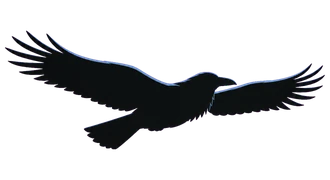
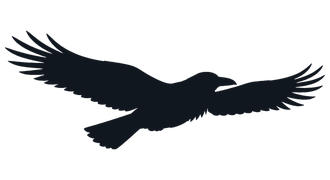
Make the ravens small flat silhouettes

diff --git a/main.js b/main.js
@@ -116,7 +116,7 @@ if (ravensBack && ravensFront) {
       reachX: 200 + Math.random() * 300,
       reachY: 60 + Math.random() * 90,
       rise: -80 + Math.random() * 150,
-      size: 46 + Math.random() * 18,
+      size: 32 + Math.random() * 12,
       flap: Math.random() * FRAMES,
       beats: 2 + Math.random() * 3,
       glide: 0,
@@ -136,6 +136,7 @@ if (ravensBack && ravensFront) {
     const frame = source === sheet ? Math.floor(raven.flap) % LOOP : 0;
     const tall = source.naturalHeight / cell;
     context.save();
+    context.globalAlpha = 0.72 + (near + 1) * 0.14;
     context.translate(x, y);
     context.scale(facing, 1);
     const drawn = source === glide ? size * 1.5 : size;
@@ -191,6 +192,6 @@ if (ravensBack && ravensFront) {
   }
 
   Promise.all([sheet, glide].map((image) => new Promise((resolve) => image.addEventListener("load", resolve, { once: true })))).then(start);
-  sheet.src = "assets/art/ravens/raven_sheet.webp";
-  glide.src = "assets/art/ravens/raven_glide.webp";
+  sheet.src = "assets/art/ravens/raven_sheet.webp?v=2";
+  glide.src = "assets/art/ravens/raven_glide.webp?v=2";
 }

diff --git a/index.html b/index.html
@@ -110,6 +110,6 @@
 <footer>
   <p>Ravenmarch: Oath and Iron is a working title. Made by DoomFrog.</p>
 </footer>
-<script src="main.js?v=7" defer></script>
+<script src="main.js?v=9" defer></script>
 </body>
 </html>
